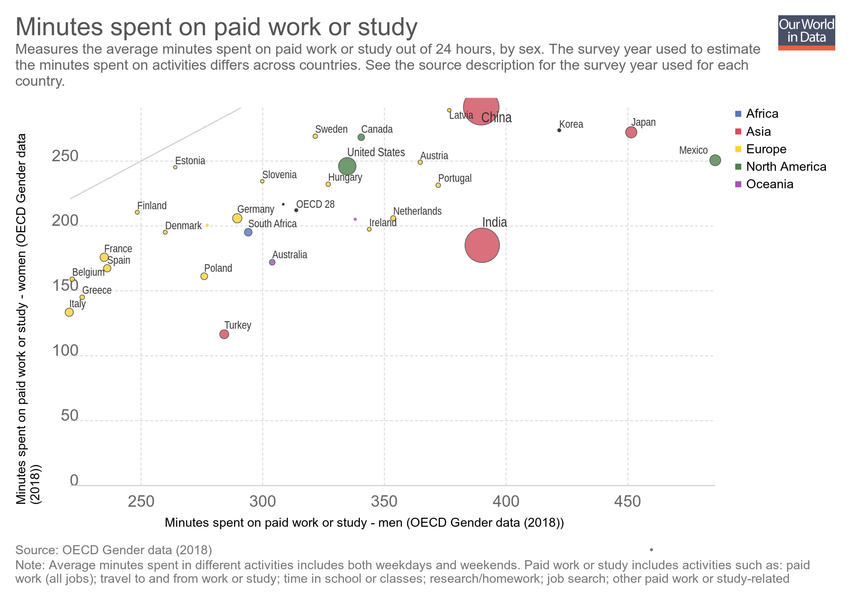
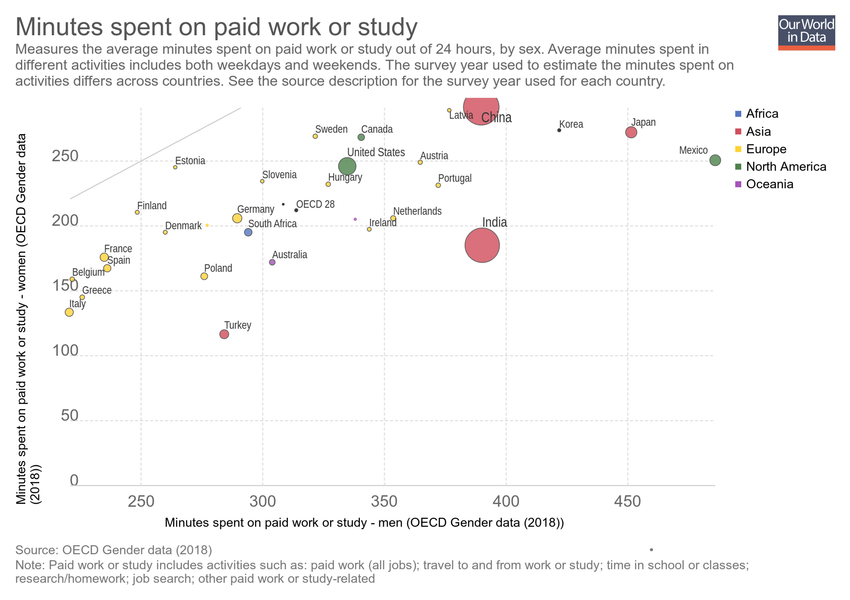
Updating chart minutes-spent-on-paid-work-or-study

Changed region(s): [[0.0, 0.06, 0.8871, 0.15], [0.0, 0.93, 0.9482, 0.99]]

diff --git a/grapher/minutes-spent-on-paid-work-or-study.html b/grapher/minutes-spent-on-paid-work-or-study.html
@@ -1,4 +1,4 @@
-<!doctype html><html><head><meta name="viewport" content="width=device-width, initial-scale=1" /><title>Minutes spent on paid work or study - Our World in Data</title><meta name="description" content="Measures the average minutes spent on paid work or study out of 24 hours, by sex. The survey year used to estimate the minutes spent on activities differs across countries. See the source description for the survey year used for each country." /><link rel="canonical" href="https://ourworldindata.org/grapher/minutes-spent-on-paid-work-or-study" /><meta property="fb:app_id" content="1149943818390250" /><meta property="og:url" content="https://ourworldindata.org/grapher/minutes-spent-on-paid-work-or-study" /><meta property="og:title" content="Minutes spent on paid work or study" /><meta property="og:description" content="Measures the average minutes spent on paid work or study out of 24 hours, by sex. The survey year used to estimate the minutes spent on activities differs across countries. See the source description for the survey year used for each country." /><meta property="og:image" content="https://ourworldindata.org/grapher/exports/minutes-spent-on-paid-work-or-study.png?v=17" /><meta property="og:image:width" content="850" /><meta property="og:image:height" content="600" /><meta property="og:site_name" content="Our World in Data" /><meta name="twitter:card" content="summary_large_image" /><meta name="twitter:site" content="@OurWorldInData" /><meta name="twitter:creator" content="@OurWorldInData" /><meta name="twitter:title" content="Minutes spent on paid work or study" /><meta name="twitter:description" content="Measures the average minutes spent on paid work or study out of 24 hours, by sex. The survey year used to estimate the minutes spent on activities differs across countries. See the source description for the survey year used for each country." /><meta name="twitter:image" content="https://ourworldindata.org/grapher/exports/minutes-spent-on-paid-work-or-study.png?v=17" /><style>
+<!doctype html><html><head><meta name="viewport" content="width=device-width, initial-scale=1" /><title>Minutes spent on paid work or study - Our World in Data</title><meta name="description" content="Measures the average minutes spent on paid work or study out of 24 hours, by sex. Average minutes spent in different activities includes both weekdays and weekends. The survey year used to estimate the minutes spent on activities differs across countries. See the source description for the survey year used for each country." /><link rel="canonical" href="https://ourworldindata.org/grapher/minutes-spent-on-paid-work-or-study" /><meta property="fb:app_id" content="1149943818390250" /><meta property="og:url" content="https://ourworldindata.org/grapher/minutes-spent-on-paid-work-or-study" /><meta property="og:title" content="Minutes spent on paid work or study" /><meta property="og:description" content="Measures the average minutes spent on paid work or study out of 24 hours, by sex. Average minutes spent in different activities includes both weekdays and weekends. The survey year used to estimate the minutes spent on activities differs across countries. See the source description for the survey year used for each country." /><meta property="og:image" content="https://ourworldindata.org/grapher/exports/minutes-spent-on-paid-work-or-study.png?v=20" /><meta property="og:image:width" content="850" /><meta property="og:image:height" content="600" /><meta property="og:site_name" content="Our World in Data" /><meta name="twitter:card" content="summary_large_image" /><meta name="twitter:site" content="@OurWorldInData" /><meta name="twitter:creator" content="@OurWorldInData" /><meta name="twitter:title" content="Minutes spent on paid work or study" /><meta name="twitter:description" content="Measures the average minutes spent on paid work or study out of 24 hours, by sex. Average minutes spent in different activities includes both weekdays and weekends. The survey year used to estimate the minutes spent on activities differs across countries. See the source description for the survey year used for each country." /><meta name="twitter:image" content="https://ourworldindata.org/grapher/exports/minutes-spent-on-paid-work-or-study.png?v=20" /><style>
         html, body {
             height: 100%;
             margin: 0;
@@ -20,8 +20,8 @@
         }
     </style><noscript><style>
                     figure { display: none !important; }
-                </style></noscript><link rel="stylesheet" href="https://ourworldindata.org/grapher/assets/commons.bundle.019a92548339820130b6.css" /><link rel="preload" href="/grapher/data/variables/96617+96612+72+123.json?v=17" as="fetch" crossorigin /></head><body class="singleChart"><figure data-grapher-src="/grapher/minutes-spent-on-paid-work-or-study"></figure><noscript id="fallback"><img src="/grapher/exports/minutes-spent-on-paid-work-or-study.svg" /><p>Interactive visualization requires JavaScript</p></noscript><script src="https://cdn.polyfill.io/v2/polyfill.min.js?features=es6,fetch"></script><script src="https://ourworldindata.org/grapher/assets/commons.bundle.019a92548339820130b6.js"></script><script src="https://ourworldindata.org/grapher/assets/charts.bundle.dcf65b68eddaba4c6a58.js"></script><script>
-        var jsonConfig = {"id":2538,"map":{"projection":"World","colorSchemeLabels":[],"colorSchemeValues":[],"colorSchemeMinValue":0,"customNumericColors":[],"customCategoryColors":{},"customCategoryLabels":{},"customHiddenCategories":{}},"tab":"chart","note":"Average minutes spent in different activities includes both weekdays and weekends. Paid work or study includes activities such as: paid work (all jobs); travel to and from work or study;  time in school or classes; research/homework; job search; other paid work or study-related","slug":"minutes-spent-on-paid-work-or-study","type":"ScatterPlot","title":"Minutes spent on paid work or study","xAxis":{"scaleType":"linear"},"yAxis":{"min":0,"scaleType":"linear"},"version":17,"subtitle":"Measures the average minutes spent on paid work or study out of 24 hours, by sex. The survey year used to estimate the minutes spent on activities differs across countries. See the source description for the survey year used for each country.","hasMapTab":false,"stackMode":"absolute","dimensions":[{"display":{},"property":"y","variableId":96617},{"display":{},"property":"x","variableId":96612},{"display":{},"property":"size","variableId":72},{"display":{},"property":"color","variableId":123}],"hasChartTab":true,"isPublished":true,"selectedData":[],"addCountryMode":"change-country","comparisonLine":{},"hideTitleAnnotation":true};
+                </style></noscript><link rel="stylesheet" href="https://ourworldindata.org/grapher/assets/commons.bundle.019a92548339820130b6.css" /><link rel="preload" href="/grapher/data/variables/96617+96612+72+123.json?v=20" as="fetch" crossorigin /></head><body class="singleChart"><figure data-grapher-src="/grapher/minutes-spent-on-paid-work-or-study"></figure><noscript id="fallback"><img src="/grapher/exports/minutes-spent-on-paid-work-or-study.svg" /><p>Interactive visualization requires JavaScript</p></noscript><script src="https://cdn.polyfill.io/v2/polyfill.min.js?features=es6,fetch"></script><script src="https://ourworldindata.org/grapher/assets/commons.bundle.019a92548339820130b6.js"></script><script src="https://ourworldindata.org/grapher/assets/charts.bundle.dcf65b68eddaba4c6a58.js"></script><script>
+        var jsonConfig = {"id":2538,"map":{"projection":"World","colorSchemeLabels":[],"colorSchemeValues":[],"colorSchemeMinValue":0,"customNumericColors":[],"customCategoryColors":{},"customCategoryLabels":{},"customHiddenCategories":{}},"tab":"chart","note":"Paid work or study includes activities such as: paid work (all jobs); travel to and from work or study;  time in school or classes; research/homework; job search; other paid work or study-related","slug":"minutes-spent-on-paid-work-or-study","type":"ScatterPlot","title":"Minutes spent on paid work or study","xAxis":{"scaleType":"linear"},"yAxis":{"min":0,"scaleType":"linear"},"version":20,"subtitle":"Measures the average minutes spent on paid work or study out of 24 hours, by sex. Average minutes spent in different activities includes both weekdays and weekends. The survey year used to estimate the minutes spent on activities differs across countries. See the source description for the survey year used for each country.","hasMapTab":false,"stackMode":"absolute","dimensions":[{"display":{},"property":"y","variableId":96617},{"display":{},"property":"x","variableId":96612},{"display":{},"property":"size","variableId":72},{"display":{},"property":"color","variableId":123}],"hasChartTab":true,"isPublished":true,"selectedData":[],"addCountryMode":"change-country","comparisonLine":{},"hideTitleAnnotation":true};
         var figure = document.getElementsByTagName("figure")[0];
         try {
             window.App = {};
